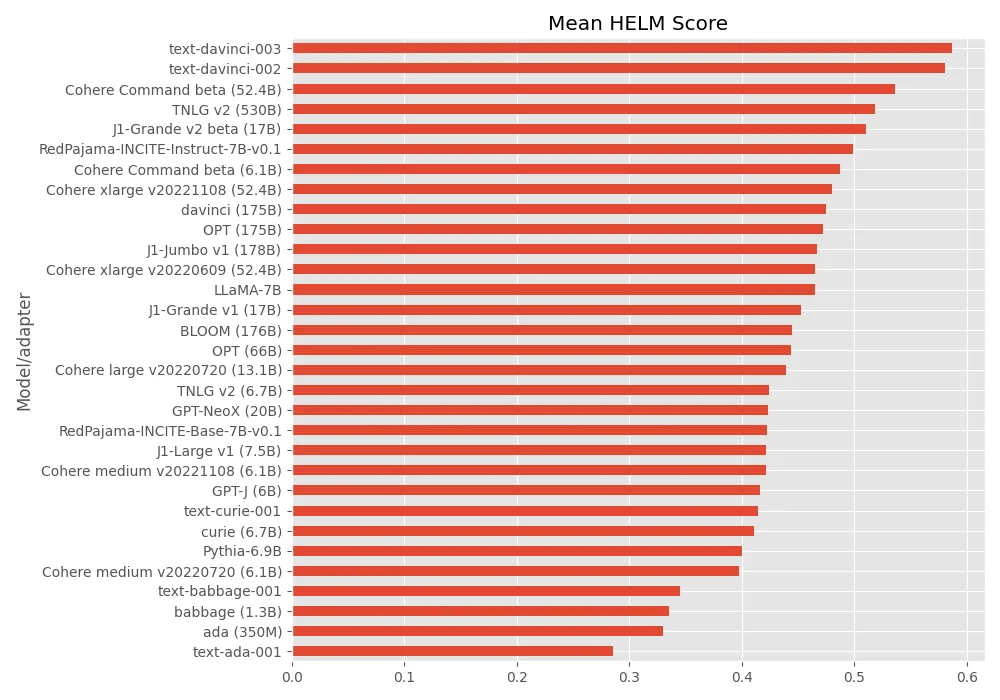
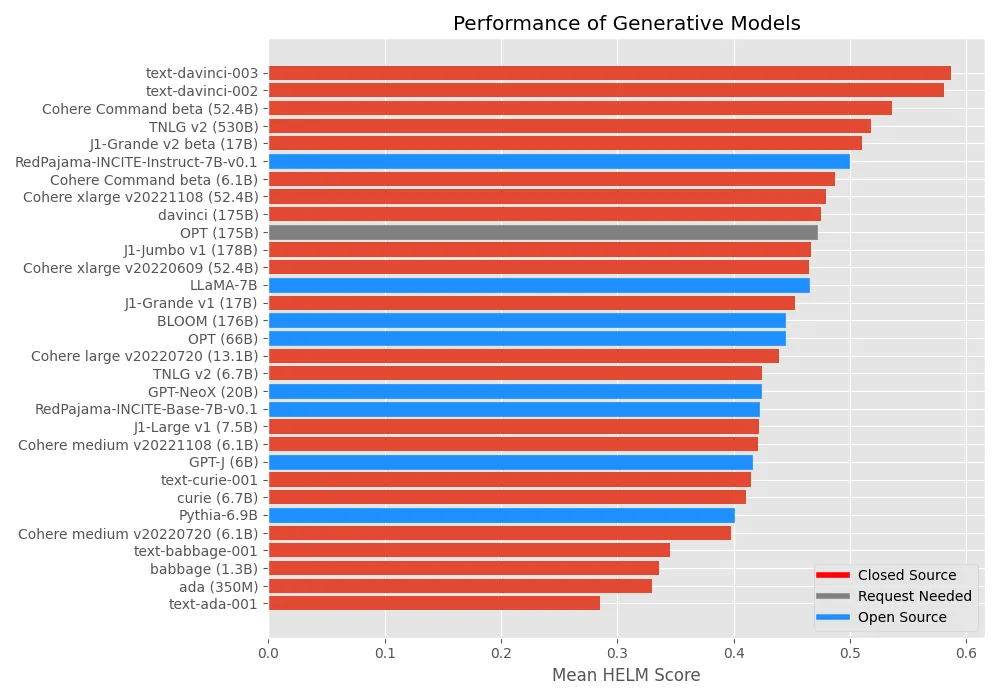
feat: Update bar plot

diff --git a/src/posts/2023-04-16-open-source-chatgpt-alternatives.md b/src/posts/2023-04-16-open-source-chatgpt-alternatives.md
@@ -370,9 +370,11 @@ Together Computer](https://www.together.xyz/blog/redpajama-models-v1):
 </center>
 
 As we can see, the open source models are starting to catch up with the established
-models from OpenAI. Note that GPT-4 is not included here, however! As many of the
-models included in this blog post are not included in these evaluations, I'll be
-conducting my own small qualitative evaluation in the next section.
+models from OpenAI. Note that neither GPT3.5-turbo nor GPT-4 are included here,
+however, which [seem to be much better than
+GPT3](https://doi.org/10.48550/arXiv.2303.08774). Furthermore, as many of the models
+included in this blog post are not included in these evaluations, I'll be conducting my
+own small qualitative evaluation in the next section.
 
 
 ### Generating Some Poetry
